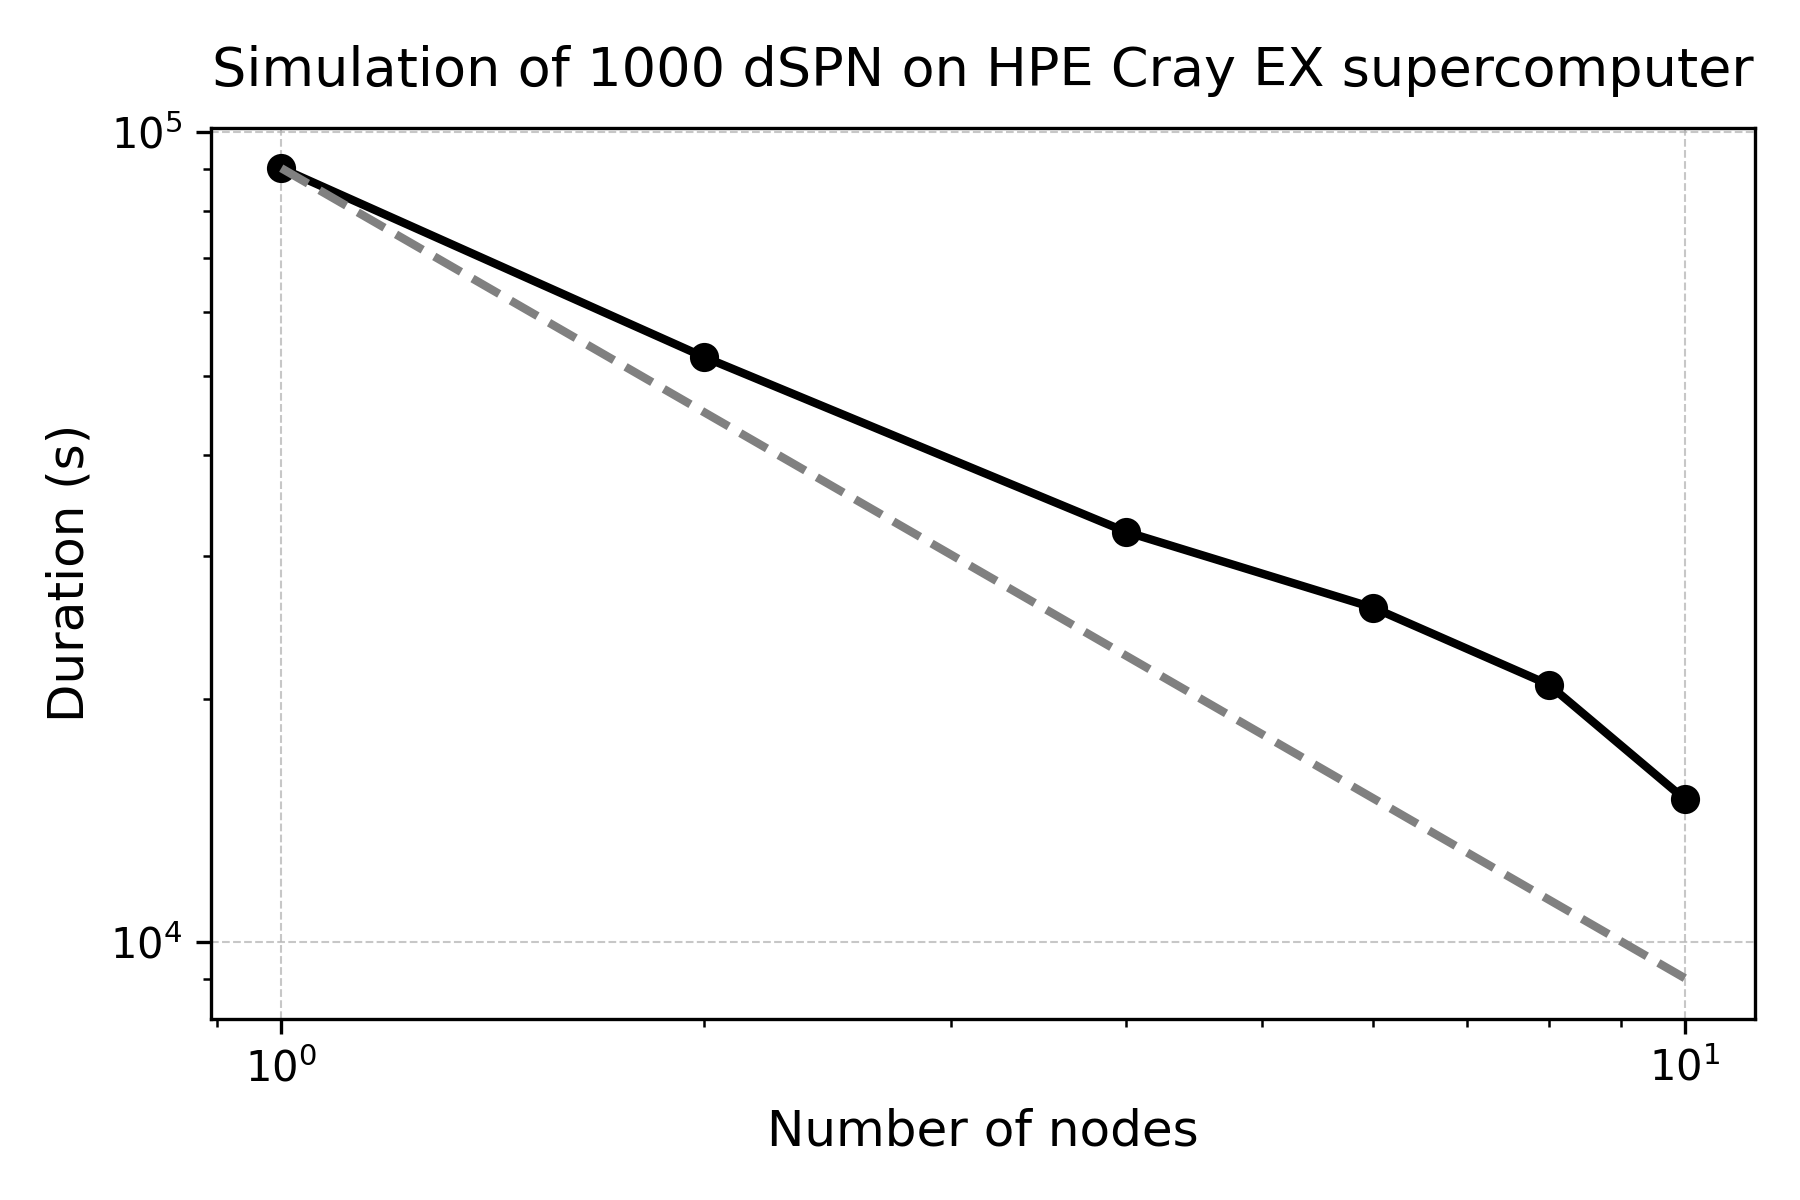
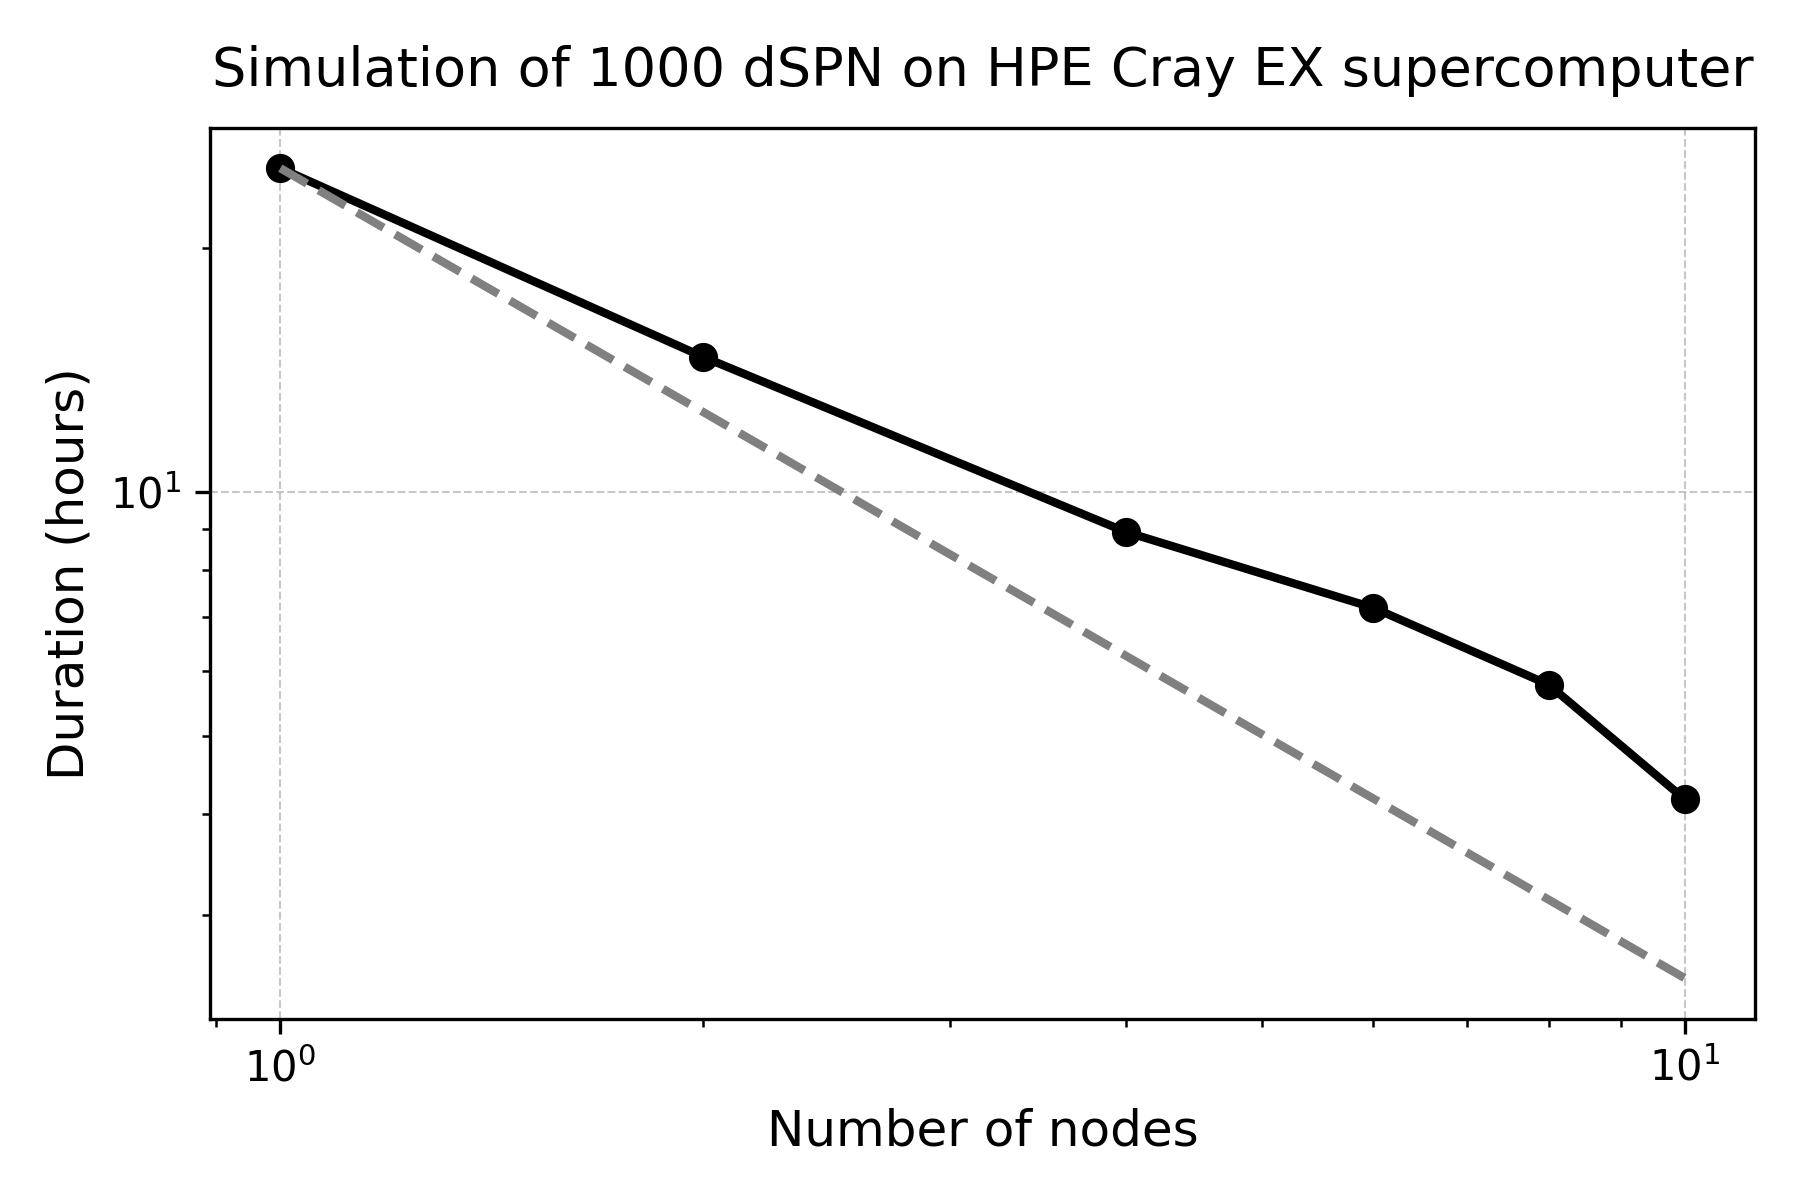
Updated figures to use h for benchmarking

diff --git a/figures/figure5/plot_benchmark_dspn.py b/figures/figure5/plot_benchmark_dspn.py
@@ -7,7 +7,7 @@ data = pd.read_csv(filename, skipinitialspace=True)
 
 # Extract columns
 nodes = data["number_of_nodes"]
-duration = data["duration_in_s"]
+duration = data["duration_in_s"] / 3600.0
 
 # Ideal linear scaling (strong scaling)
 T1 = duration[nodes == 1][0]
@@ -43,7 +43,7 @@ plt.yscale("log")
 
 # Labels and title
 plt.xlabel("Number of nodes", fontsize=12)
-plt.ylabel("Duration (s)", fontsize=12)
+plt.ylabel("Duration (hours)", fontsize=12)
 
 # Ticks
 plt.xticks(fontsize=10)
